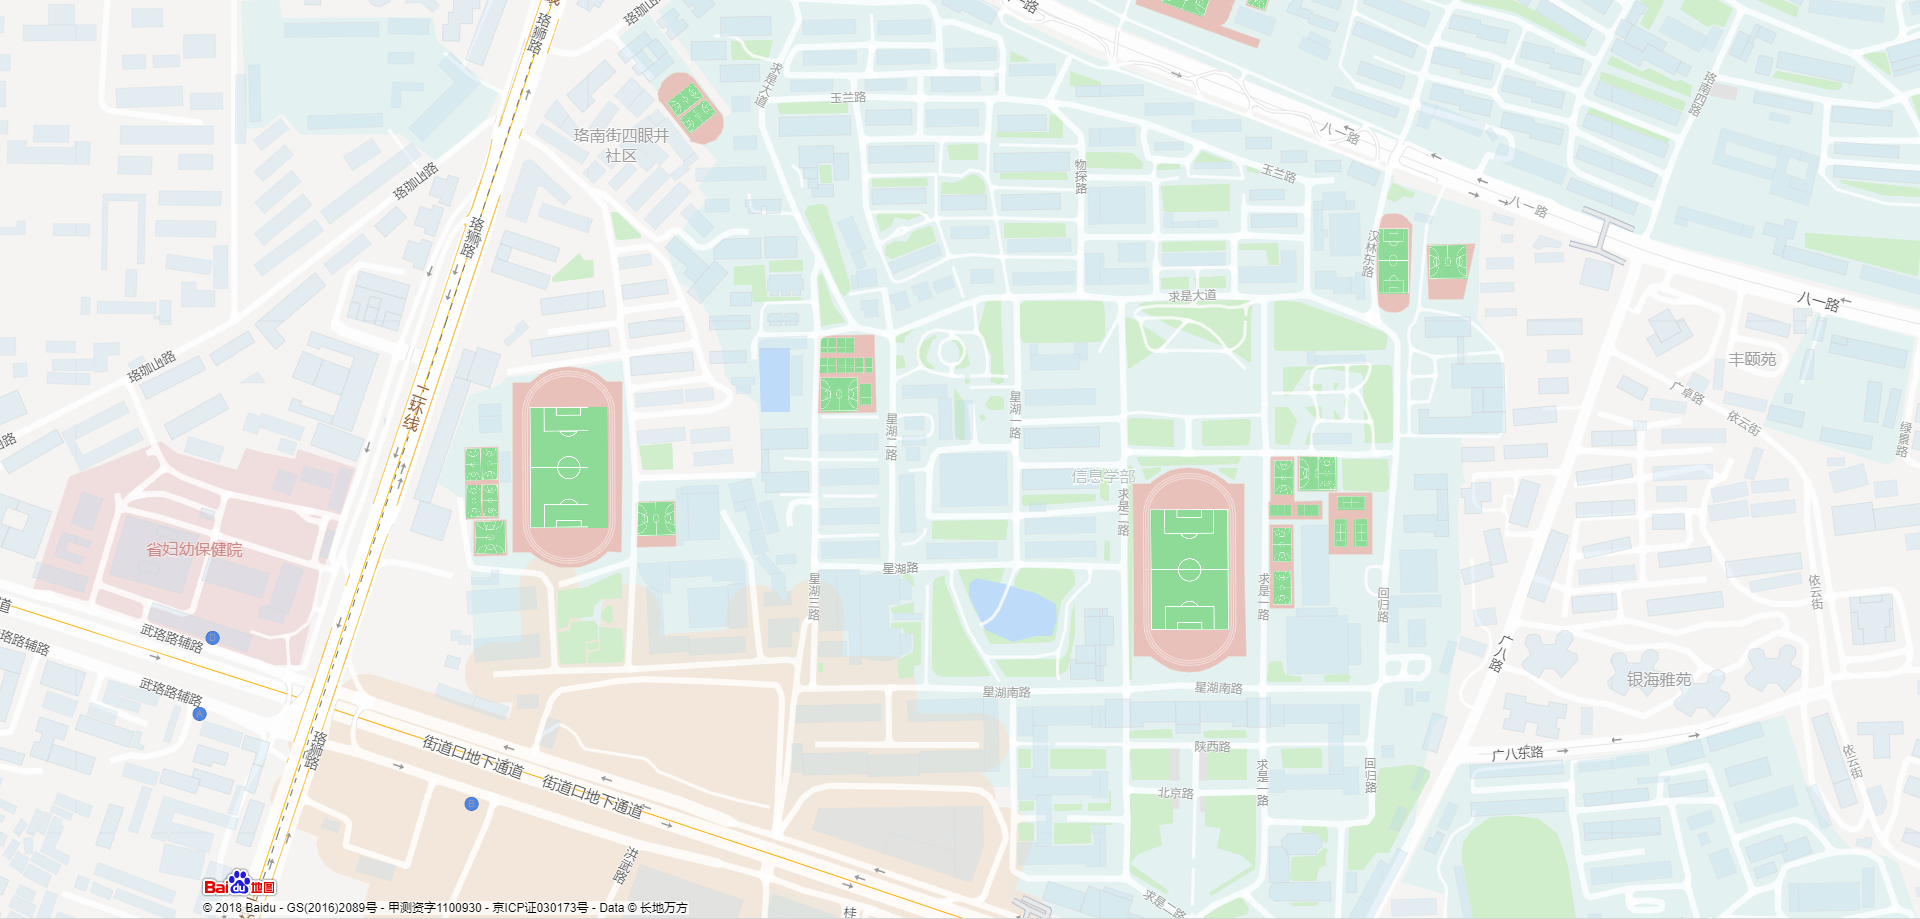
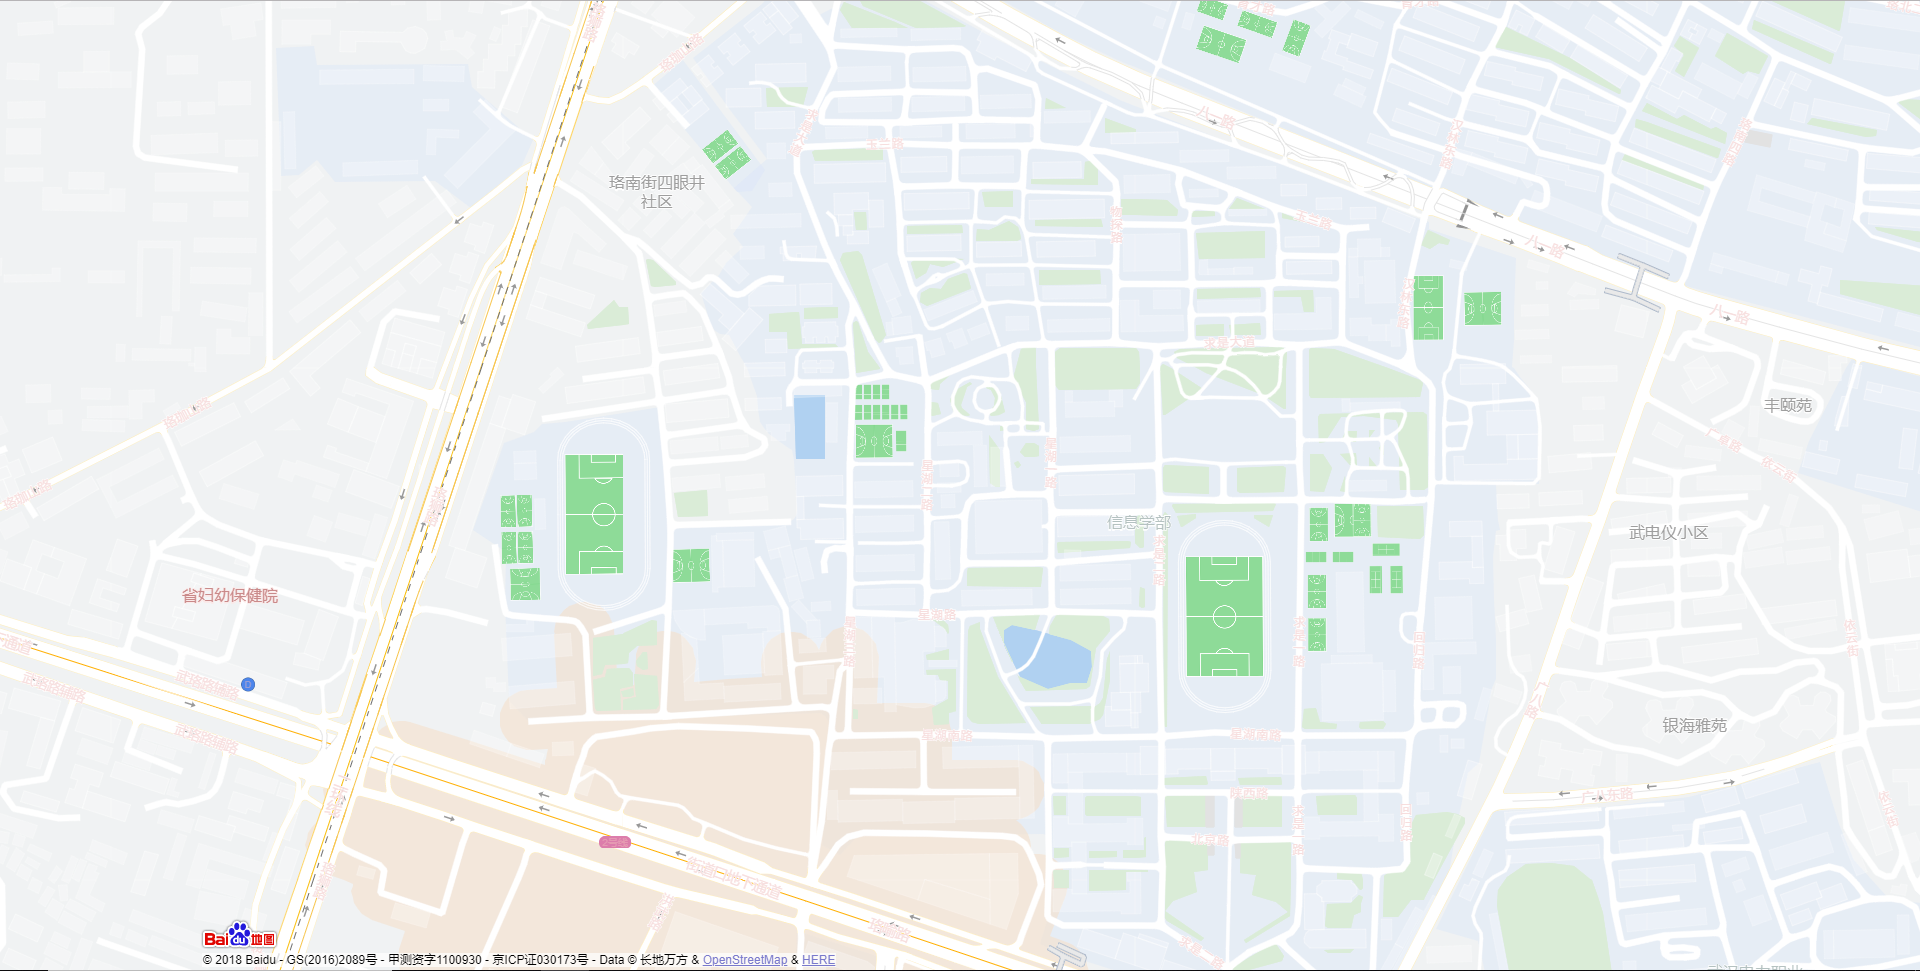
11.27
修改首页登陆表单
更改地图，调整图标适应

diff --git a/Index.html b/Index.html
@@ -19,6 +19,28 @@
 </head>
 
 <body>
+<div id = "log">
+	<div class = "row">
+			<img class = "col-md-1 col-md-offset-8" src = "pic/picOfIndex/head-pic.jpg" style = "display: inline-block;">
+	</div>
+
+	<form class = "form-horizontal">
+
+			<div class = "form-group">
+				<label class = "control-label" style = "color: white;">User Name</label>
+				<input type = "text" class = "col-md-5 form-control" id = "username" placeholder = "username">
+			</div>
+
+			<div class = "form-group">
+				<label class = "control-label" style = "color: white;">Password</label>
+				<input type = "password" class = "col-md-5 form-control" id = "password" placeholder = "password">
+			</div>
+
+			<div class = "form-group">
+				<button type = "submit" class = "btn btn-default col-md-1 form-control" id = "submit-btn">Log in</button>
+			</div>
+		</form>
+</div>
 
 	<div class = "pic">
 		<img src = "pic/picOfIndex/back.png" id = "back">
@@ -28,54 +50,10 @@
 		<img src = "pic/picOfIndex/p2.png" id = "p2">
 		<img src = "pic/picOfIndex/line.png" id = "line">
 		<img src = "pic/picOfIndex/l.png" id = "l">
-
-
-		<div class = "container-fluid log">
-		<div class = "row e">
-			<div class = "col-md-1">1</div>
-		</div>
-		<div class = "row e">
-			<div class = "col-md-1">1</div>
-		</div>
-		<div class = "row e">
-			<div class = "col-md-1">1</div>
-		</div>
-		<div class = "row e">
-			<div class = "col-md-1">1</div>
-		</div>
-		<div class = "row e">
-			<div class = "col-md-1">1</div>
-		</div>
-		<div class = "row e">
-			<div class = "col-md-1">1</div>
-		</div>
-		<div class = "row e">
-			<div class = "col-md-1">1</div>
-		</div>
-
-		<div class = "row">
-			<img class = "col-md-1 col-md-offset-8" src = "pic/picOfIndex/head-pic.jpg">
-		</div>
-
-		<form class = "col-md-offset-7 col-md-3 form-horizontal">
-			<div class = "form-group">
-				<label class = "col-md-4 control-label">User Name</label>
-				<input type = "text" class = "col-md-3 form-control" id = "username" placeholder = "username">
-			</div>
-
-			<div class = "form-group">
-				<label class = "col-md-4 control-label">Password</label>
-				<input type = "password" class = "col-md-3 form-control" id = "password" placeholder = "password">
-			</div>
-
-			<div class = "form-group">
-				<button type = "submit" class = "btn btn-default col-md-1 form-control" id = "submit-btn">Log in</button>
-			</div>
-
-
-        </form>
 	</div>
-	</div>
+
+
+
 
 	
 

diff --git a/css/styleOfMap.css b/css/styleOfMap.css
@@ -83,21 +83,21 @@ center:hover {
 }
 
 #一食堂 {
-	height: 8%;
-	bottom: 42.5%;
-	left: 48.5%;
+	height: 6.5%;
+	bottom: 42%;
+	left: 50.3%;
 }
 
 #二食堂 {
 	height:11%;
-	bottom: 28%;
-	left: 42%;
+	bottom: 25%;
+	left: 44%;
 }
 
 #信操 {
 	height:23%;
 	bottom: 26%;
-	left: 58.5%;
+	left: 60.5%;
 
 }
 
@@ -109,57 +109,57 @@ center:hover {
 }
 
 #网安操场 {
-	height:23%;
+	height:20%;
 	bottom: 37%;
-	left: 26%;
+	left: 29%;
 }
 
 #网安教学楼 {
-	height:10%;
+	height:8.5%;
 	bottom:28%;
-	left:33%;
+	left:34.5%;
 }
 
 #青楼 {
 	height:8%;
-	right: 31%;
-	top: 72%;
+	right: 29.2%;
+	top: 73%;
 }
 
 #德仁 {
 	height:8%;
-	bottom:57%;
-	left: 46%;
+	bottom:55%;
+	left: 48%;
 }
 
 #星湖园 {
 	height:6%;
-	bottom: 74%;
-	left: 56.5%;
+	bottom: 71%;
+	left: 58.3%;
 }
 
 #图书馆 {
-	height: 8%;
-	bottom: 55%;
-	left: 58.5%;
+	height: 7.5%;
+	bottom: 53%;
+	left: 60.3%;
 }
 
 #星湖 {
-	height: 12%;
-	bottom:28%;
-	left: 49%;
+	height: 10%;
+	bottom:27%;
+	left: 51%;
 }
 
 #友谊广场 {
-	height: 14%;
-	bottom:0%;
-	left:58.5%;
+	height: 13%;
+	bottom:0.4%;
+	left:60.3%;
 }
 
 #游泳池 {
-	height: 12%;
-	bottom:52%;
-	left:39%;
+	height: 10%;
+	bottom:50%;
+	left:41%;
 }
 
 

diff --git a/css/styleOfIndex.css b/css/styleOfIndex.css
@@ -126,12 +126,8 @@ body {
 
 /*登陆框*/
 
-.log {
+#log {
     position: absolute;
-    bottom: 10%;
-    left:55%;
-}
-
-.e {
-    display: none;
+    bottom: 28%;
+    left:65%;
 }
